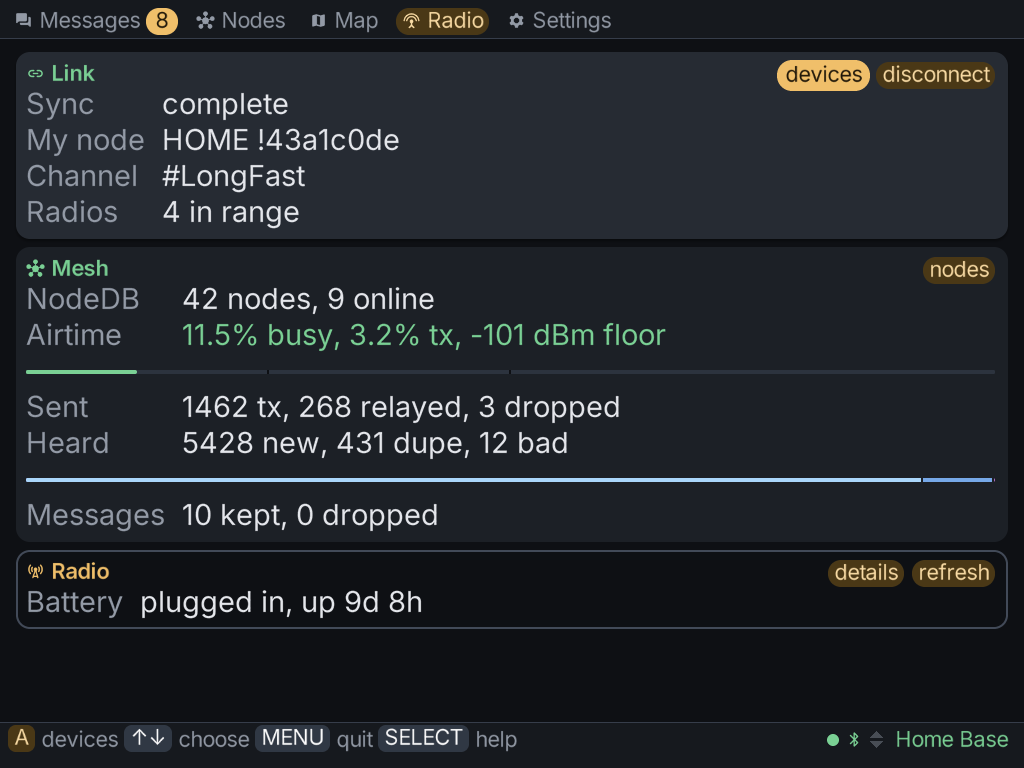
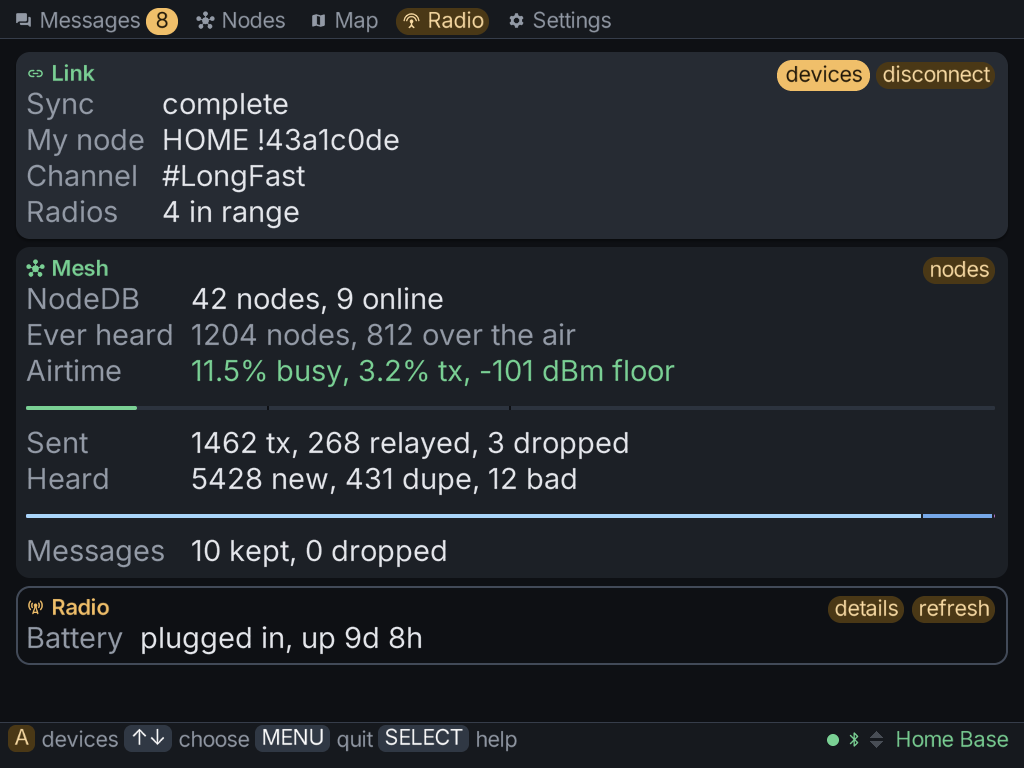
feat(status): show how many nodes this client has ever heard
The roster is capped at 256 and evicts the least useful node, so on a big
enough mesh the Status card's node counts read as a ceiling - "256 nodes"
looks like everything the client ever found. The lifetime stats already
count every distinct node heard, across every run and radio, but nothing
showed it.

The Mesh card gains an "Ever heard" row: "1204 nodes, 812 over the air",
with a "+" form once the lifetime set (8192) has had to turn a node away and
the count is a floor. The handshake carries the two counts and the floor
flag; the publish cache republishes on the lifetime's revision, so a node
heard moves the row even when nothing else in the roster changed. The
Status help note now explains all three counts. Spanish strings included.

Pixels: the Status screen's Mesh card has one more row whenever anything
has been heard; .github/resources/screenshots/status.png is regenerated and
is the only still that changed. The capture harness's demo radio carries a
year's worth of heard nodes so scenes show it.

Claude-Session: https://claude.ai/code/session_01FAoqkcz29VrL65mvzub17c

Changed region(s): [[0.0, 0.375, 0.9688, 0.875], [0.7812, 0.7188, 1.0, 0.8125]]

diff --git a/tests/suites/app.c b/tests/suites/app.c
@@ -3757,6 +3757,94 @@ cleanup:
 }
 
 /*
+ * The Status card's "Ever heard" count reaches past the roster.
+ *
+ * The roster is capped at MESH_SESSION_MAX_NODES and evicts, so on a mesh bigger than that its
+ * count is a ceiling and reads like one: "256 nodes" looks like everything the client ever found.
+ * The lifetime set is what is not a window, and this holds that it is what gets published -
+ * more distinct nodes heard than the roster could ever hold, some of them only over MQTT.
+ */
+MESH_TEST_CASE(app_publishes_nodes_heard_past_the_roster, unit) {
+    const char *failure = NULL;
+    bool app_ready = false;
+    struct mesh_app app;
+    memset(&app, 0, sizeof app);
+
+    char home_dir[APP_TEST_HOME_CAP];
+    if (!app_test_home(home_dir, sizeof home_dir, "heard_ever")) {
+        record_failure(test_name, "mkdtemp failed");
+        return;
+    }
+    struct mesh_app_config config = mesh_app_config_default();
+    config.run_mode = MESH_APP_RUN_SINGLE_POLL;
+    config.enable_serial = false;
+    config.enable_ble = false;
+    if (mesh_app_init(&app, &config) != 0) {
+        failure = "app init failed";
+        goto cleanup;
+    }
+    app_ready = true;
+
+    /* A roster to publish at all - one node is enough; what is on it is not the question. */
+    struct mesh_node_summary seed;
+    memset(&seed, 0, sizeof seed);
+    seed.node_id = 0x5FFFFFFFU;
+    seed.last_heard = 1000000U;
+    mesh_session_seed_node(&app.session, &seed);
+
+    /* What the session tells its observer as nodes are heard: more than the roster holds, the
+       last fifty only through an internet bridge. */
+    const uint32_t heard = MESH_SESSION_MAX_NODES + 100U;
+    const uint32_t bridged = 50U;
+    for (uint32_t i = 0; i < heard; ++i) {
+        struct mesh_node_summary node;
+        memset(&node, 0, sizeof node);
+        node.node_id = 0x60000000U + i;
+        const struct mesh_session_event event = {
+            .kind = MESH_SESSION_EVENT_NODE_HEARD, .node = &node, .via_mqtt = i >= heard - bridged};
+        mesh_lifetime_observe(&app.lifetime, &app.session, &event);
+    }
+
+    mesh_app_publish_ui_state(&app);
+    const struct mesh_ui_handshake_state *hs = &app.ui_store.handshake;
+    if (hs->nodes_heard_ever != heard) {
+        failure = "every distinct node ever heard should be published, not the roster's cap";
+        goto cleanup;
+    }
+    if (hs->nodes_heard_ever_rf != heard - bridged) {
+        failure = "and how many of those came over the air, without the bridged ones";
+        goto cleanup;
+    }
+    if (hs->nodes_heard_ever_floor) {
+        failure = "a set that has turned nobody away is an exact count, not a floor";
+        goto cleanup;
+    }
+
+    /* One more heard and nothing else changed: the count alone has to republish. */
+    struct mesh_node_summary late;
+    memset(&late, 0, sizeof late);
+    late.node_id = 0x6F000000U;
+    const struct mesh_session_event event = {.kind = MESH_SESSION_EVENT_NODE_HEARD, .node = &late};
+    mesh_lifetime_observe(&app.lifetime, &app.session, &event);
+    mesh_app_publish_ui_state(&app);
+    if (app.ui_store.handshake.nodes_heard_ever != heard + 1U) {
+        failure = "a node heard should move the published count even with the roster unchanged";
+        goto cleanup;
+    }
+
+cleanup:
+    if (app_ready) {
+        mesh_app_shutdown(&app);
+    }
+    if (!mesh_test_remove_tree(home_dir)) {
+        failure = failure != NULL ? failure : "cleanup failed";
+    }
+    unsetenv("MESHCLIENT_UI_BACKEND");
+    MESH_TEST_FAIL_IF(failure != NULL, failure);
+    record_success(test_name);
+}
+
+/*
  * A direct message announcing itself, and the two ways that must not misfire.
  *
  * The reporter is driven through mesh_app_publish_ui_state() rather than called directly,

diff --git a/src/app/app_publish.c b/src/app/app_publish.c
@@ -119,6 +119,8 @@ struct mesh_app_publish_cache {
     /* Not part of `handshake`: the session's send path is not a field of the handshake status,
        so a drop that changed nothing else in that struct would not republish without this. */
     bool link_up;
+    /* Nor is the lifetime stats' count of nodes ever heard, which the handshake carries. */
+    uint32_t lifetime_revision;
     struct mesh_handshake_status handshake;
     struct mesh_message_log messages;
     struct mesh_waypoint_book waypoints;
@@ -173,6 +175,14 @@ void mesh_app_format_peer_name(const struct mesh_handshake_status *status, uint3
     }
 
     snprintf(out, out_len, "!%08x", node_id);
+}
+
+/* A lifetime SET as the UI carries it. The set is capped at MESH_LIFETIME_NODES_MAX, so the
+   clamp never bites; it is here so the narrowing is stated rather than assumed. */
+static uint32_t mesh_app_lifetime_u32(const struct mesh_lifetime *lifetime,
+                                      enum mesh_lifetime_stat stat) {
+    const uint64_t value = mesh_lifetime_value(lifetime, stat);
+    return value > UINT32_MAX ? UINT32_MAX : (uint32_t)value;
 }
 
 /*
@@ -2849,6 +2859,7 @@ void mesh_app_publish_ui_state(struct mesh_app *app) {
         handshake_changed || messages_changed ||
         cache->roster_owner != mesh_session_roster_owner(&app->session) ||
         cache->link_up != mesh_session_attached(&app->session) ||
+        cache->lifetime_revision != app->lifetime.revision ||
         memcmp(&cache->preferences, &app->ui_preferences, sizeof app->ui_preferences) != 0;
     const struct mesh_waypoint_book *source_waypoints = mesh_session_waypoints(&app->session);
     const bool waypoints_changed =
@@ -2886,6 +2897,11 @@ void mesh_app_publish_ui_state(struct mesh_app *app) {
             mesh_session_forgettable_nodes(&app->session, true);
         ui_handshake.nodes_forgettable_all = mesh_session_forgettable_nodes(&app->session, false);
         ui_handshake.nodes_discovered = mesh_session_nodes_discovered(&app->session);
+        ui_handshake.nodes_heard_ever =
+            mesh_app_lifetime_u32(&app->lifetime, MESH_LIFETIME_NODES_HEARD);
+        ui_handshake.nodes_heard_ever_rf =
+            mesh_app_lifetime_u32(&app->lifetime, MESH_LIFETIME_NODES_HEARD_RF);
+        ui_handshake.nodes_heard_ever_floor = !mesh_lifetime_complete(&app->lifetime);
         ui_handshake.cached = !status->config_complete && !status->has_my_info &&
                               !status->request_in_flight && !status->has_config;
         if (status->has_my_info) {
@@ -3266,6 +3282,7 @@ void mesh_app_publish_ui_state(struct mesh_app *app) {
         cache->preferences = app->ui_preferences;
         cache->roster_owner = mesh_session_roster_owner(&app->session);
         cache->link_up = mesh_session_attached(&app->session);
+        cache->lifetime_revision = app->lifetime.revision;
         cache->locale = inkcell_i18n_locale();
         cache->valid = true;
     }

diff --git a/src/i18n/locale_es.c b/src/i18n/locale_es.c
@@ -302,6 +302,7 @@ const char *const mesh_i18n_table_es[MESH_STR_COUNT] = {
     [MESH_STR_STATUS_LABEL_MY_NODE] = "Mi nodo",
     [MESH_STR_STATUS_LABEL_NODEDB] = "NodeDB",
     [MESH_STR_STATUS_LABEL_CACHED_HERE] = "Guardados aquí",
+    [MESH_STR_STATUS_LABEL_HEARD_EVER] = "Histórico",
     [MESH_STR_STATUS_LABEL_CHANNEL] = "Canal",
     [MESH_STR_STATUS_LABEL_AIRTIME] = "Uso del aire",
     [MESH_STR_STATUS_LABEL_BATTERY] = "Batería",
@@ -332,6 +333,8 @@ const char *const mesh_i18n_table_es[MESH_STR_COUNT] = {
     [MESH_STR_STATUS_NODEDB_ONLINE] = "%u nodos, %u en línea",
     [MESH_STR_STATUS_NODEDB_REBOOTS] = "%u nodos, %u reinicios",
     [MESH_STR_STATUS_CACHED_OFF_RADIO] = "%u nodos, %u fuera de radio",
+    [MESH_STR_STATUS_HEARD_EVER] = "%u nodos, %u por aire",
+    [MESH_STR_STATUS_HEARD_EVER_FLOOR] = "%u+ nodos, %u+ por aire",
     [MESH_STR_STATUS_AIRTIME] = "%s ocupado, %s tx",
     [MESH_STR_STATUS_AIRTIME_FLOOR] = "%s ocupado, %s tx, base %d dBm",
     [MESH_STR_STATUS_PERCENT] = "%.1f%%",
@@ -695,7 +698,7 @@ const char *const mesh_i18n_table_es[MESH_STR_COUNT] = {
     [MESH_STR_HELP_LABEL_DEVICES_NETWORK] = "La radio en red",
     [MESH_STR_HELP_LABEL_DEVICES_AUTO] = "Cuál elige",
     [MESH_STR_HELP_LABEL_DEVICES_SIGNAL] = "La señal con conexión",
-    [MESH_STR_HELP_LABEL_STATUS_COUNTS] = "Por qué difieren los dos recuentos",
+    [MESH_STR_HELP_LABEL_STATUS_COUNTS] = "Por qué difieren los recuentos de nodos",
     [MESH_STR_HELP_LABEL_STATUS_AIRTIME] = "Las cifras del uso del aire",
     [MESH_STR_HELP_LABEL_STATUS_TRAFFIC] = "Enviado y escuchado",
     [MESH_STR_HELP_LABEL_STATUS_FLOOR] = "El ruido de fondo",

diff --git a/include/mesh/ui/store_handshake.h b/include/mesh/ui/store_handshake.h
@@ -164,6 +164,20 @@ struct mesh_ui_handshake_state {
      * the rows below. 0 on a handshake nobody published: a cache, a fixture.
      */
     uint32_t nodes_discovered;
+    /*
+     * How many distinct nodes this client has ever heard, and how many of those over the air -
+     * mesh_lifetime's NODES_HEARD and NODES_HEARD_RF, across every run and every radio.
+     *
+     * Beside the roster's own count because the roster is a window: it holds
+     * MESH_SESSION_MAX_NODES and evicts, so on a big enough mesh it is full, and "256 nodes"
+     * alone reads as "256 is all I have ever found". This is the number that is not a window.
+     * `nodes_heard_ever_floor` is set once the lifetime set has had to turn a node away, and
+     * the counts are then at least this rather than exactly it. 0 on a handshake nobody
+     * published, and when the stats could not be opened and nothing has been heard this run.
+     */
+    uint32_t nodes_heard_ever;
+    uint32_t nodes_heard_ever_rf;
+    bool nodes_heard_ever_floor;
     char primary_channel[33];
     char my_short_name[6];
     struct mesh_ui_node_summary nodes[MESH_UI_MAX_HANDSHAKE_NODES];

diff --git a/devtools/ui_capture/main.c b/devtools/ui_capture/main.c
@@ -278,6 +278,9 @@ static int uicap_seed_demo(struct inkstand_scene *scene, void *userdata) {
     handshake.has_config = true;
     handshake.my_info.node_num = seeds[0].node_id;
     handshake.my_info.nodedb_entries = 42U;
+    /* A year of one Brick's history: far more nodes heard than any roster keeps. */
+    handshake.nodes_heard_ever = 1204U;
+    handshake.nodes_heard_ever_rf = 812U;
     handshake.roster_owner = seeds[0].node_id;
     snprintf(handshake.primary_channel, sizeof handshake.primary_channel, "%s", "LongFast");
     snprintf(handshake.my_short_name, sizeof handshake.my_short_name, "%s", "HOME");
@@ -1643,6 +1646,9 @@ static int verb_discover(struct inkstand_scene *scene, char *rest, void *userdat
     node->discovered = ++handshake.nodes_discovered;
     ++handshake.node_count;
     ++handshake.nodes_known;
+    /* Heard over the air, hops and all, and new to this Brick - so new to its lifetime too. */
+    ++handshake.nodes_heard_ever;
+    ++handshake.nodes_heard_ever_rf;
     mesh_ui_store_set_handshake(&cap->store, &handshake);
     return 0;
 }

diff --git a/src/ui/backends/fb_screens_status.c b/src/ui/backends/fb_screens_status.c
@@ -509,6 +509,15 @@ void fb_render_status(struct inkcell_draw_state *state, const struct mesh_ui_sna
             inkcell_fb_card_row(&card, INKCELL_TONE_DIM, MESH_STR_STATUS_LABEL_CACHED_HERE,
                                 MESH_STR_STATUS_CACHED_OFF_RADIO, hs->node_count, off_radio);
         }
+        /* And the count that is not a window. Both rows above are capped and evict, so on a
+           big enough mesh they read as a ceiling - "256 nodes" looks like everything ever
+           found. This one only goes up, and is drawn whenever there is anything in it. */
+        if (hs->nodes_heard_ever > 0U) {
+            inkcell_fb_card_row(&card, INKCELL_TONE_DIM, MESH_STR_STATUS_LABEL_HEARD_EVER,
+                                hs->nodes_heard_ever_floor ? MESH_STR_STATUS_HEARD_EVER_FLOOR
+                                                           : MESH_STR_STATUS_HEARD_EVER,
+                                hs->nodes_heard_ever, hs->nodes_heard_ever_rf);
+        }
     }
 
     if (have_util || have_tx) {
